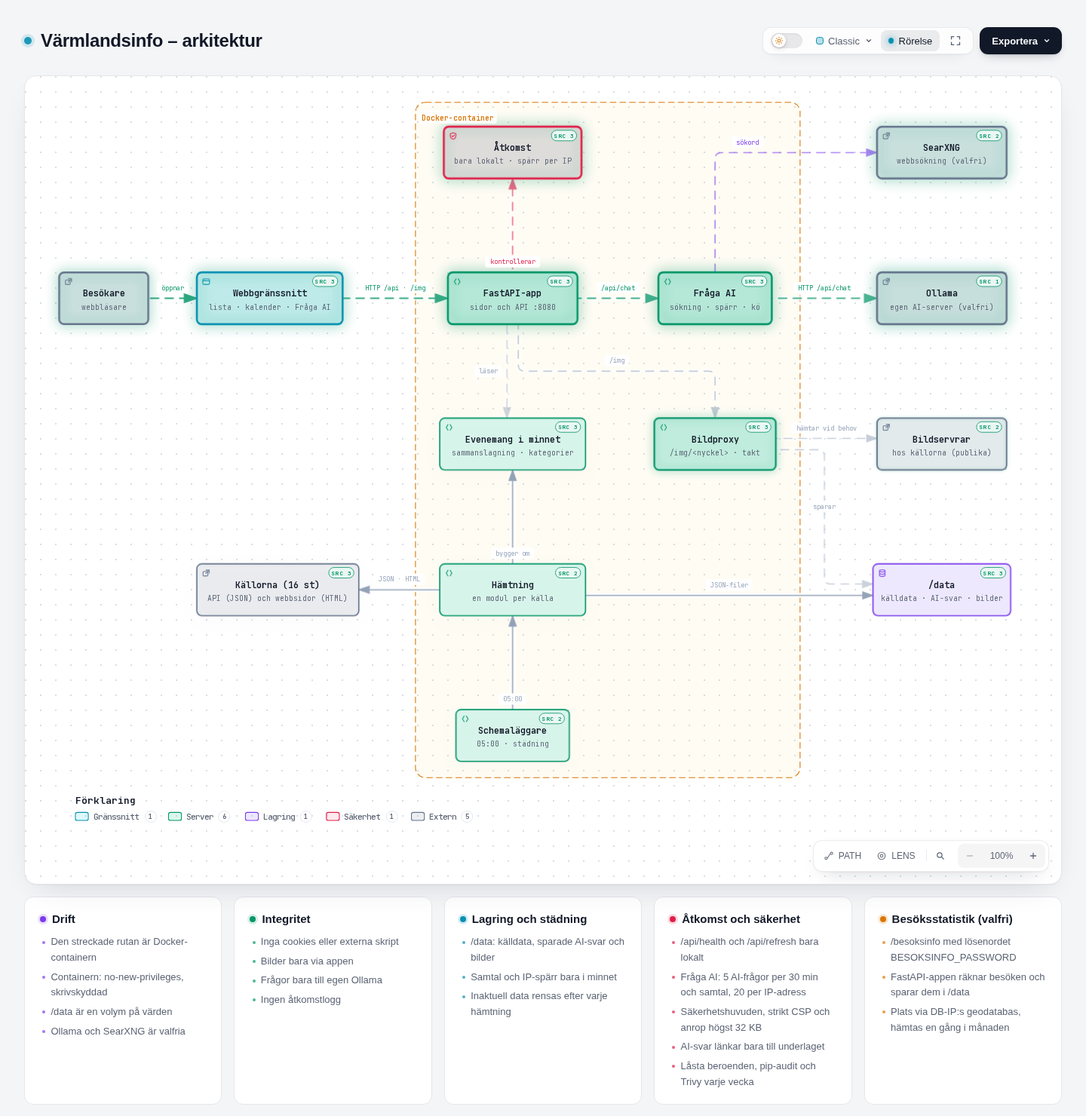
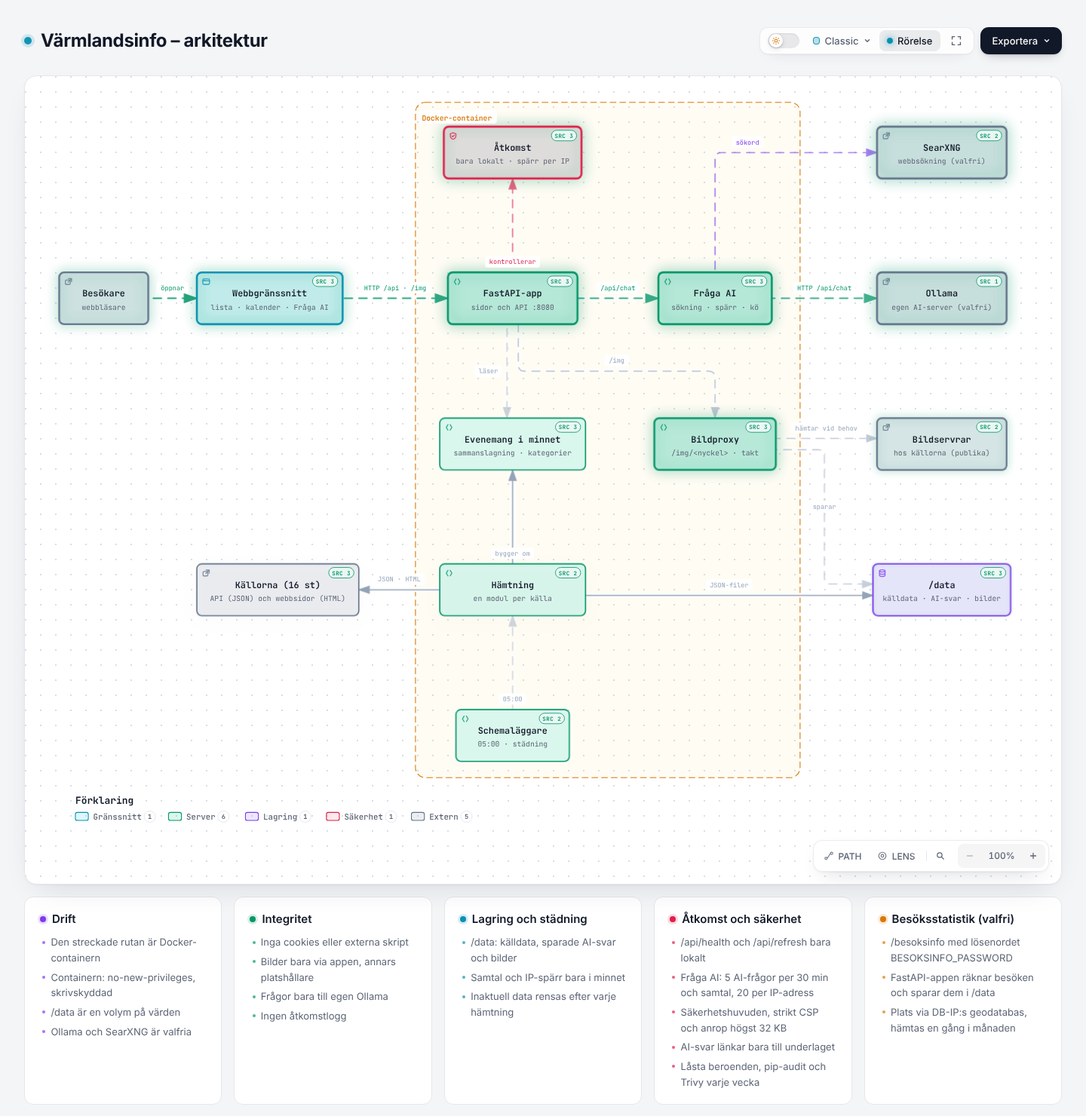
Arkitekturbilden på v0.33.0 (#103)
Revisionen 16ca8a8, en hänvisning till platshållarbilderna i
webbgränssnittet och kortet Integritet nämner dem. Omrenderad med
Archify (alla kontroller godkända) och ny skärmbild i ljust läge.

Closes #103

Claude-Session: https://claude.ai/code/session_011w4Yd2iswLxA5DiZ7UK4Ru

diff --git a/docs/arkitektur/varmlandsinfo.html b/docs/arkitektur/varmlandsinfo.html
@@ -4982,7 +4982,7 @@ OTHER DEALINGS IN THE FONT SOFTWARE.
       </div>
     </div>
 
-    <script id="archify-source-evidence-data" type="application/json">{"schemaVersion":1,"verified":true,"repository":{"url":"https://github.com/tubalainen/varmlandsinfo","revision":"64b8774852574dab24ae22b36ae48332cced5d8c","shortRevision":"64b8774","label":"tubalainen/varmlandsinfo","href":"https://github.com/tubalainen/varmlandsinfo/tree/64b8774852574dab24ae22b36ae48332cced5d8c"},"referenceCount":33,"nodes":{"ui":[{"path":"app/static/app.js","line":134,"endLine":139,"label":"vyerna","href":"https://github.com/tubalainen/varmlandsinfo/blob/64b8774852574dab24ae22b36ae48332cced5d8c/app/static/app.js#L134-L139"},{"path":"app/static/app.js","line":246,"label":"hämtar /api/events","href":"https://github.com/tubalainen/varmlandsinfo/blob/64b8774852574dab24ae22b36ae48332cced5d8c/app/static/app.js#L246"},{"path":"app/static/chat.js","line":11,"endLine":15,"label":"länkar bara till underlaget","href":"https://github.com/tubalainen/varmlandsinfo/blob/64b8774852574dab24ae22b36ae48332cced5d8c/app/static/chat.js#L11-L15"}],"api":[{"path":"app/main.py","line":227,"endLine":248,"label":"/api/events och /img","href":"https://github.com/tubalainen/varmlandsinfo/blob/64b8774852574dab24ae22b36ae48332cced5d8c/app/main.py#L227-L248"},{"path":"app/main.py","line":295,"label":"/api/chat","href":"https://github.com/tubalainen/varmlandsinfo/blob/64b8774852574dab24ae22b36ae48332cced5d8c/app/main.py#L295"},{"path":"app/main.py","line":365,"endLine":422,"label":"högst 32 KB, säkerhetshuvuden och CSP","href":"https://github.com/tubalainen/varmlandsinfo/blob/64b8774852574dab24ae22b36ae48332cced5d8c/app/main.py#L365-L422"}],"access":[{"path":"app/access.py","line":33,"endLine":56,"label":"lokalt och klientens IP","href":"https://github.com/tubalainen/varmlandsinfo/blob/64b8774852574dab24ae22b36ae48332cced5d8c/app/access.py#L33-L56"},{"path":"app/access.py","line":58,"label":"IpLimiter","href":"https://github.com/tubalainen/varmlandsinfo/blob/64b8774852574dab24ae22b36ae48332cced5d8c/app/access.py#L58"},{"path":"app/main.py","line":251,"endLine":257,"label":"health och refresh","href":"https://github.com/tubalainen/varmlandsinfo/blob/64b8774852574dab24ae22b36ae48332cced5d8c/app/main.py#L251-L257"}],"chat":[{"path":"app/chat.py","line":842,"label":"chat_stream","href":"https://github.com/tubalainen/varmlandsinfo/blob/64b8774852574dab24ae22b36ae48332cced5d8c/app/chat.py#L842"},{"path":"app/chat.py","line":942,"label":"kön till Ollama","href":"https://github.com/tubalainen/varmlandsinfo/blob/64b8774852574dab24ae22b36ae48332cced5d8c/app/chat.py#L942"},{"path":"app/chat.py","line":696,"endLine":699,"label":"tillåtna länkar","href":"https://github.com/tubalainen/varmlandsinfo/blob/64b8774852574dab24ae22b36ae48332cced5d8c/app/chat.py#L696-L699"}],"ollama":[{"path":"app/chat.py","line":963,"label":"POST /api/chat","href":"https://github.com/tubalainen/varmlandsinfo/blob/64b8774852574dab24ae22b36ae48332cced5d8c/app/chat.py#L963"}],"searxng":[{"path":"app/chat.py","line":931,"label":"webbsökning","href":"https://github.com/tubalainen/varmlandsinfo/blob/64b8774852574dab24ae22b36ae48332cced5d8c/app/chat.py#L931"},{"path":"app/websearch.py","line":56,"endLine":63,"label":"GET /search","href":"https://github.com/tubalainen/varmlandsinfo/blob/64b8774852574dab24ae22b36ae48332cced5d8c/app/websearch.py#L56-L63"}],"images":[{"path":"app/images.py","line":101,"label":"ImageProxy","href":"https://github.com/tubalainen/varmlandsinfo/blob/64b8774852574dab24ae22b36ae48332cced5d8c/app/images.py#L101"},{"path":"app/images.py","line":155,"endLine":163,"label":"takt mot källorna","href":"https://github.com/tubalainen/varmlandsinfo/blob/64b8774852574dab24ae22b36ae48332cced5d8c/app/images.py#L155-L163"},{"path":"app/images.py","line":213,"label":"_download","href":"https://github.com/tubalainen/varmlandsinfo/blob/64b8774852574dab24ae22b36ae48332cced5d8c/app/images.py#L213"}],"imagehosts":[{"path":"app/images.py","line":213,"endLine":238,"label":"hämtning med kontroller","href":"https://github.com/tubalainen/varmlandsinfo/blob/64b8774852574dab24ae22b36ae48332cced5d8c/app/images.py#L213-L238"},{"path":"app/images.py","line":86,"endLine":98,"label":"serverns adress är publik","href":"https://github.com/tubalainen/varmlandsinfo/blob/64b8774852574dab24ae22b36ae48332cced5d8c/app/images.py#L86-L98"}],"merge":[{"path":"app/events.py","line":42,"endLine":62,"label":"rebuild","href":"https://github.com/tubalainen/varmlandsinfo/blob/64b8774852574dab24ae22b36ae48332cced5d8c/app/events.py#L42-L62"},{"path":"app/merge.py","line":122,"label":"merge","href":"https://github.com/tubalainen/varmlandsinfo/blob/64b8774852574dab24ae22b36ae48332cced5d8c/app/merge.py#L122"},{"path":"app/events.py","line":228,"label":"current_events","href":"https://github.com/tubalainen/varmlandsinfo/blob/64b8774852574dab24ae22b36ae48332cced5d8c/app/events.py#L228"}],"scheduler":[{"path":"app/main.py","line":142,"label":"scheduler","href":"https://github.com/tubalainen/varmlandsinfo/blob/64b8774852574dab24ae22b36ae48332cced5d8c/app/main.py#L142"},{"path":"app/main.py","line":102,"label":"cleanup","href":"https://github.com/tubalainen/varmlandsinfo/blob/64b8774852574dab24ae22b36ae48332cced5d8c/app/main.py#L102"}],"fetch":[{"path":"app/events.py","line":127,"endLine":147,"label":"_refresh","href":"https://github.com/tubalainen/varmlandsinfo/blob/64b8774852574dab24ae22b36ae48332cced5d8c/app/events.py#L127-L147"},{"path":"app/sources/__init__.py","line":19,"endLine":21,"label":"källorna","href":"https://github.com/tubalainen/varmlandsinfo/blob/64b8774852574dab24ae22b36ae48332cced5d8c/app/sources/__init__.py#L19-L21"}],"data":[{"path":"app/events.py","line":65,"endLine":76,"label":"källdata (JSON)","href":"https://github.com/tubalainen/varmlandsinfo/blob/64b8774852574dab24ae22b36ae48332cced5d8c/app/events.py#L65-L76"},{"path":"app/chat_cache.py","line":49,"endLine":55,"label":"sparade AI-svar","href":"https://github.com/tubalainen/varmlandsinfo/blob/64b8774852574dab24ae22b36ae48332cced5d8c/app/chat_cache.py#L49-L55"},{"path":"app/images.py","line":204,"label":"bilder","href":"https://github.com/tubalainen/varmlandsinfo/blob/64b8774852574dab24ae22b36ae48332cced5d8c/app/images.py#L204"}],"sources":[{"path":"app/sources/visitvarmland.py","line":51,"label":"Visit Värmland","href":"https://github.com/tubalainen/varmlandsinfo/blob/64b8774852574dab24ae22b36ae48332cced5d8c/app/sources/visitvarmland.py#L51"},{"path":"app/sources/motorsport.py","line":116,"endLine":136,"label":"SBF och Svemo","href":"https://github.com/tubalainen/varmlandsinfo/blob/64b8774852574dab24ae22b36ae48332cced5d8c/app/sources/motorsport.py#L116-L136"},{"path":"app/sources/__init__.py","line":19,"endLine":21,"label":"alla källor","href":"https://github.com/tubalainen/varmlandsinfo/blob/64b8774852574dab24ae22b36ae48332cced5d8c/app/sources/__init__.py#L19-L21"}]}}</script>
+    <script id="archify-source-evidence-data" type="application/json">{"schemaVersion":1,"verified":true,"repository":{"url":"https://github.com/tubalainen/varmlandsinfo","revision":"16ca8a8ec38490a827246c05f5f9cc3992118754","shortRevision":"16ca8a8","label":"tubalainen/varmlandsinfo","href":"https://github.com/tubalainen/varmlandsinfo/tree/16ca8a8ec38490a827246c05f5f9cc3992118754"},"referenceCount":33,"nodes":{"ui":[{"path":"app/static/app.js","line":246,"label":"hämtar /api/events","href":"https://github.com/tubalainen/varmlandsinfo/blob/16ca8a8ec38490a827246c05f5f9cc3992118754/app/static/app.js#L246"},{"path":"app/static/app.js","line":458,"endLine":469,"label":"platshållarbilder","href":"https://github.com/tubalainen/varmlandsinfo/blob/16ca8a8ec38490a827246c05f5f9cc3992118754/app/static/app.js#L458-L469"},{"path":"app/static/chat.js","line":11,"endLine":15,"label":"länkar bara till underlaget","href":"https://github.com/tubalainen/varmlandsinfo/blob/16ca8a8ec38490a827246c05f5f9cc3992118754/app/static/chat.js#L11-L15"}],"api":[{"path":"app/main.py","line":227,"endLine":248,"label":"/api/events och /img","href":"https://github.com/tubalainen/varmlandsinfo/blob/16ca8a8ec38490a827246c05f5f9cc3992118754/app/main.py#L227-L248"},{"path":"app/main.py","line":295,"label":"/api/chat","href":"https://github.com/tubalainen/varmlandsinfo/blob/16ca8a8ec38490a827246c05f5f9cc3992118754/app/main.py#L295"},{"path":"app/main.py","line":365,"endLine":422,"label":"högst 32 KB, säkerhetshuvuden och CSP","href":"https://github.com/tubalainen/varmlandsinfo/blob/16ca8a8ec38490a827246c05f5f9cc3992118754/app/main.py#L365-L422"}],"access":[{"path":"app/access.py","line":33,"endLine":56,"label":"lokalt och klientens IP","href":"https://github.com/tubalainen/varmlandsinfo/blob/16ca8a8ec38490a827246c05f5f9cc3992118754/app/access.py#L33-L56"},{"path":"app/access.py","line":58,"label":"IpLimiter","href":"https://github.com/tubalainen/varmlandsinfo/blob/16ca8a8ec38490a827246c05f5f9cc3992118754/app/access.py#L58"},{"path":"app/main.py","line":251,"endLine":257,"label":"health och refresh","href":"https://github.com/tubalainen/varmlandsinfo/blob/16ca8a8ec38490a827246c05f5f9cc3992118754/app/main.py#L251-L257"}],"chat":[{"path":"app/chat.py","line":842,"label":"chat_stream","href":"https://github.com/tubalainen/varmlandsinfo/blob/16ca8a8ec38490a827246c05f5f9cc3992118754/app/chat.py#L842"},{"path":"app/chat.py","line":942,"label":"kön till Ollama","href":"https://github.com/tubalainen/varmlandsinfo/blob/16ca8a8ec38490a827246c05f5f9cc3992118754/app/chat.py#L942"},{"path":"app/chat.py","line":696,"endLine":699,"label":"tillåtna länkar","href":"https://github.com/tubalainen/varmlandsinfo/blob/16ca8a8ec38490a827246c05f5f9cc3992118754/app/chat.py#L696-L699"}],"ollama":[{"path":"app/chat.py","line":963,"label":"POST /api/chat","href":"https://github.com/tubalainen/varmlandsinfo/blob/16ca8a8ec38490a827246c05f5f9cc3992118754/app/chat.py#L963"}],"searxng":[{"path":"app/chat.py","line":931,"label":"webbsökning","href":"https://github.com/tubalainen/varmlandsinfo/blob/16ca8a8ec38490a827246c05f5f9cc3992118754/app/chat.py#L931"},{"path":"app/websearch.py","line":56,"endLine":63,"label":"GET /search","href":"https://github.com/tubalainen/varmlandsinfo/blob/16ca8a8ec38490a827246c05f5f9cc3992118754/app/websearch.py#L56-L63"}],"images":[{"path":"app/images.py","line":101,"label":"ImageProxy","href":"https://github.com/tubalainen/varmlandsinfo/blob/16ca8a8ec38490a827246c05f5f9cc3992118754/app/images.py#L101"},{"path":"app/images.py","line":155,"endLine":163,"label":"takt mot källorna","href":"https://github.com/tubalainen/varmlandsinfo/blob/16ca8a8ec38490a827246c05f5f9cc3992118754/app/images.py#L155-L163"},{"path":"app/images.py","line":213,"label":"_download","href":"https://github.com/tubalainen/varmlandsinfo/blob/16ca8a8ec38490a827246c05f5f9cc3992118754/app/images.py#L213"}],"imagehosts":[{"path":"app/images.py","line":213,"endLine":238,"label":"hämtning med kontroller","href":"https://github.com/tubalainen/varmlandsinfo/blob/16ca8a8ec38490a827246c05f5f9cc3992118754/app/images.py#L213-L238"},{"path":"app/images.py","line":86,"endLine":98,"label":"serverns adress är publik","href":"https://github.com/tubalainen/varmlandsinfo/blob/16ca8a8ec38490a827246c05f5f9cc3992118754/app/images.py#L86-L98"}],"merge":[{"path":"app/events.py","line":42,"endLine":62,"label":"rebuild","href":"https://github.com/tubalainen/varmlandsinfo/blob/16ca8a8ec38490a827246c05f5f9cc3992118754/app/events.py#L42-L62"},{"path":"app/merge.py","line":122,"label":"merge","href":"https://github.com/tubalainen/varmlandsinfo/blob/16ca8a8ec38490a827246c05f5f9cc3992118754/app/merge.py#L122"},{"path":"app/events.py","line":228,"label":"current_events","href":"https://github.com/tubalainen/varmlandsinfo/blob/16ca8a8ec38490a827246c05f5f9cc3992118754/app/events.py#L228"}],"scheduler":[{"path":"app/main.py","line":142,"label":"scheduler","href":"https://github.com/tubalainen/varmlandsinfo/blob/16ca8a8ec38490a827246c05f5f9cc3992118754/app/main.py#L142"},{"path":"app/main.py","line":102,"label":"cleanup","href":"https://github.com/tubalainen/varmlandsinfo/blob/16ca8a8ec38490a827246c05f5f9cc3992118754/app/main.py#L102"}],"fetch":[{"path":"app/events.py","line":127,"endLine":147,"label":"_refresh","href":"https://github.com/tubalainen/varmlandsinfo/blob/16ca8a8ec38490a827246c05f5f9cc3992118754/app/events.py#L127-L147"},{"path":"app/sources/__init__.py","line":19,"endLine":21,"label":"källorna","href":"https://github.com/tubalainen/varmlandsinfo/blob/16ca8a8ec38490a827246c05f5f9cc3992118754/app/sources/__init__.py#L19-L21"}],"data":[{"path":"app/events.py","line":65,"endLine":76,"label":"källdata (JSON)","href":"https://github.com/tubalainen/varmlandsinfo/blob/16ca8a8ec38490a827246c05f5f9cc3992118754/app/events.py#L65-L76"},{"path":"app/chat_cache.py","line":49,"endLine":55,"label":"sparade AI-svar","href":"https://github.com/tubalainen/varmlandsinfo/blob/16ca8a8ec38490a827246c05f5f9cc3992118754/app/chat_cache.py#L49-L55"},{"path":"app/images.py","line":204,"label":"bilder","href":"https://github.com/tubalainen/varmlandsinfo/blob/16ca8a8ec38490a827246c05f5f9cc3992118754/app/images.py#L204"}],"sources":[{"path":"app/sources/visitvarmland.py","line":51,"label":"Visit Värmland","href":"https://github.com/tubalainen/varmlandsinfo/blob/16ca8a8ec38490a827246c05f5f9cc3992118754/app/sources/visitvarmland.py#L51"},{"path":"app/sources/motorsport.py","line":116,"endLine":136,"label":"SBF och Svemo","href":"https://github.com/tubalainen/varmlandsinfo/blob/16ca8a8ec38490a827246c05f5f9cc3992118754/app/sources/motorsport.py#L116-L136"},{"path":"app/sources/__init__.py","line":19,"endLine":21,"label":"alla källor","href":"https://github.com/tubalainen/varmlandsinfo/blob/16ca8a8ec38490a827246c05f5f9cc3992118754/app/sources/__init__.py#L19-L21"}]}}</script>
     <script id="archify-i18n-data" type="application/json">{"locale":"sv","messages":{"viewer.kind.frontend":"Gränssnitt","viewer.kind.backend":"Server","viewer.kind.database":"Lagring","viewer.kind.cloud":"Moln","viewer.kind.security":"Säkerhet","viewer.kind.messagebus":"Meddelandekö","viewer.kind.external":"Extern","viewer.kind.neutral":"Neutral","viewer.kind.node":"Node","viewer.kind.start":"Start","viewer.kind.active":"Active","viewer.kind.waiting":"Waiting","viewer.kind.decision":"Decision","viewer.kind.success":"Success","viewer.kind.failure":"Failure","viewer.toolbar.actions":"Diagramåtgärder","viewer.theme.toggle.title":"Byt tema (T)","viewer.theme.toggle":"Byt färgtema","viewer.theme.dark":"Mörkt","viewer.theme.light":"Ljust","viewer.preset.choose.title":"Choose visual style (S cycles)","viewer.preset.choose":"Choose visual style","viewer.preset.style":"Style","viewer.preset.menu":"Visual style","viewer.preset.identity":"Visual identity","viewer.preset.cycles":"to cycle","viewer.preset.classic":"Classic","viewer.preset.classic.short":"Classic","viewer.preset.classic.hint":"Stable technical default","viewer.preset.flow":"Signal Flow","viewer.preset.flow.short":"Flow","viewer.preset.flow.hint":"Motion-forward presentation","viewer.preset.blueprint":"Blueprint","viewer.preset.blueprint.hint":"Engineering review","viewer.preset.editorial":"Editorial","viewer.preset.editorial.hint":"Publication and launch notes","viewer.preset.badge.signalFlow":"SIGNAL FLOW","viewer.preset.badge.blueprint":"BLUEPRINT / REV 01","viewer.preset.badge.editorial":"EDITORIAL / FIELD NOTE","viewer.preset.badge.editorialPlate":"ARCHIFY / PLATE 04","viewer.preset.current":"Visual style: {style}. Choose visual style","viewer.motion.live":"Rörelse","viewer.motion.still":"Stilla","viewer.motion.pause":"Pausa rörelsen","viewer.motion.resume":"Starta rörelsen","viewer.motion.reduced":"Rörelsen är pausad eftersom minskad rörelse är vald","viewer.motion.hidden":"Rörelsen är pausad medan sidan är dold","viewer.motion.yielding":"Pause motion; currently yielding to {owner}","viewer.motion.yielding.title":"Live preview enabled · yielding to {owner}","viewer.owner.route":"Route Probe","viewer.owner.lens":"Semantic Lens","viewer.owner.relationship":"Relationship Preview","viewer.owner.intent":"Intent Trace","viewer.owner.focus":"semantic focus","viewer.owner.legend":"legend preview","viewer.owner.reader":"reader interaction","viewer.present.enter":"Visa i presentationsläge","viewer.present.enter.title":"Presentationsläge (F)","viewer.present.exit":"Lämna presentationsläget","viewer.present.exit.title":"Lämna presentationsläget (F eller Escape)","viewer.present.present":"Presentera","viewer.present.exit.label":"Lämna","viewer.export.button":"Exportera","viewer.export.button.title":"Exportera diagrammet (E)","viewer.export.diagram":"Exportera diagrammet","viewer.export.menu":"Exportera","viewer.export.subtitle":"Portable, clean outputs","viewer.export.share":"Share","viewer.export.shareCard":"Share Card","viewer.export.routeShareCard":"Route Share Card","viewer.export.reachShareCard":"Reach Share Card","viewer.export.copyDiagram":"Copy diagram","viewer.export.clipboardPng":"PNG to clipboard","viewer.export.raster":"Raster images","viewer.export.image":"Image","viewer.export.lossless":"Lossless image","viewer.export.compact":"Compact image","viewer.export.modern":"Modern image","viewer.export.vectorMotion":"Vector and motion","viewer.export.vectorMotion.heading":"Vector \u0026 motion","viewer.export.editable":"Editable vector","viewer.export.svg.auto":"SVG · Auto","viewer.export.svg.auto.hint":"Matches host theme","viewer.export.svg.light":"SVG · Light","viewer.export.svg.light.hint":"Always light","viewer.export.svg.dark":"SVG · Dark","viewer.export.svg.dark.hint":"Always dark","viewer.export.motion6s":"6s motion","viewer.export.unsupported":"Not supported by this browser","viewer.export.clipboardUnsupported":"Clipboard image write not supported by this browser","viewer.export.clipboardUnsupported.short":"Clipboard image write not supported in this browser.","viewer.export.motionUnavailable":"Motion capture unavailable in this browser","viewer.export.webmUnavailable":"WebM unavailable in this browser","viewer.export.failed":"Export failed: {message}","viewer.export.unknownVariant":"Unknown Share Card variant: {variant}","viewer.export.routeRequired":"Trace a route before exporting a Route Share Card","viewer.export.reachRequired":"Trace authored reach before exporting a Reach Share Card","viewer.export.unknown":"unknown","viewer.export.routeFailed":"Route Share Card export failed: {message}","viewer.export.reachFailed":"Reach Share Card export failed: {message}","viewer.export.copyFailed":"Copy failed: {message}","viewer.export.copiedPng":"Copied PNG to clipboard","viewer.export.downloadedRoute":"Downloaded Route Share Card","viewer.export.downloadedReach":"Downloaded Reach Share Card","viewer.export.downloadedWebm":"Downloaded WebM","viewer.export.recording":"Recording 6 seconds of motion…","viewer.export.card.routeSummary.one":"Path: {source} → {target} · {count} step","viewer.export.card.routeSummary.other":"Path: {source} → {target} · {count} steps","viewer.export.card.reachSummary":"Authored {direction} from {origin} · {nodes} · {links} · max {hops}","viewer.export.card.node.one":"{count} node","viewer.export.card.node.other":"{count} nodes","viewer.export.card.link.one":"{count} link","viewer.export.card.link.other":"{count} links","viewer.export.card.hop.one":"{count} hop","viewer.export.card.hop.other":"{count} hops","viewer.export.card.routeBadge":"ARCHIFY · ROUTE · {hops}","viewer.export.card.reachBadge":"ARCHIFY · {direction} REACH","viewer.export.direction.upstream":"Upstream","viewer.export.direction.downstream":"Downstream","viewer.export.error.canvasUnavailable":"Canvas unavailable for {label}","viewer.export.error.contextUnavailable":"2D canvas context unavailable for {label}","viewer.export.error.toBlobUnavailable":"canvas.toBlob unavailable for {label}","viewer.export.error.toBlobNull":"canvas.toBlob returned no data for {label}","viewer.export.error.variantsCombined":"Share Card variants cannot be combined","viewer.export.error.viewerState":"Share Card export could not remove temporary viewer state","viewer.export.error.routeState":"Route Card export could not preserve the resolved route safely","viewer.export.error.reachState":"Reach Card export could not preserve authored reach safely","viewer.export.error.webmRequirements":"WebM motion export requires a trace animation and browser MediaRecorder support","viewer.export.error.mediaRecorder":"MediaRecorder failed","viewer.export.error.emptyWebm":"MediaRecorder produced an empty WebM","viewer.export.error.webmBackground":"SVG background could not be loaded for WebM export","viewer.guide.title":"Explore this system","viewer.focus.selectedNodes":"{count} selected nodes","viewer.guide.eyebrow":"Diagram guide","viewer.guide.close":"Close diagram guide","viewer.guide.inspecting":"Inspecting compiled semantics","viewer.guide.actions":"Diagram exploration actions","viewer.guide.find":"Find any node","viewer.guide.find.hint":"Search labels, responsibilities, kinds, and stable IDs.","viewer.guide.route":"Trace a route","viewer.guide.route.aria":"Trace a directed route","viewer.guide.route.hint":"Ask how two semantic nodes connect in authored direction.","viewer.guide.map":"See the whole system","viewer.guide.map.hint":"Open Semantic Radar with a live viewport and stable nodes.","viewer.guide.lens":"Compare semantic kinds","viewer.guide.lens.hint":"Count roles, reveal their traffic, and compare direct authored links.","viewer.guide.present":"Enter Presentation Stage","viewer.guide.present.hint":"Give the live diagram the viewport without changing export.","viewer.guide.shortcuts":"Additional keyboard shortcuts","viewer.guide.shortcut.export":"Export","viewer.guide.shortcut.theme":"Theme","viewer.guide.shortcut.style":"Style","viewer.guide.shortcut.reset":"Reset","viewer.guide.shortcut.zoomIn":"Zoom in","viewer.guide.shortcut.zoomOut":"Zoom out","viewer.guide.shortcut.close":"Close","viewer.guide.facts":"{nodes} · {relationships}","viewer.guide.fact.node.one":"{count} semantic node","viewer.guide.fact.node.other":"{count} semantic nodes","viewer.guide.fact.relationship.one":"{count} relationship","viewer.guide.fact.relationship.other":"{count} relationships","viewer.guide.open":"Open diagram guide","viewer.finder.title":"Find a node","viewer.finder.close":"Close node finder","viewer.finder.placeholder":"Search labels or IDs","viewer.finder.search":"Search diagram nodes","viewer.finder.results":"Diagram nodes","viewer.finder.empty":"No matching nodes","viewer.finder.result.focus":"Focus {label}","viewer.finder.result.routeStart":"Choose {label} as route start","viewer.finder.result.routeTarget":"Choose {label} as route destination, {links}","viewer.finder.status.empty":"No matching nodes","viewer.finder.status.count.one":"{count} matching node","viewer.finder.status.count.other":"{count} matching nodes","viewer.finder.noun.nodes":"nodes","viewer.finder.link.one":"{count} link","viewer.finder.link.other":"{count} links","viewer.finder.result.focus.one":"Focus {label}, {count} related connection","viewer.finder.result.focus.other":"Focus {label}, {count} related connections","viewer.finder.status.filtered":"{visible} of {available} {noun}","viewer.finder.status.all":"{available} {noun}","viewer.passport.eyebrow":"Semantic passport","viewer.passport.metadata":"Node metadata","viewer.passport.evidence":"Verified source evidence","viewer.passport.verified":"Verified source","viewer.passport.verificationScope":"Verified against local Git at the pinned revision. Remote access has not been checked.","viewer.passport.reach":"Authored reach","viewer.passport.reach.trace":"Trace authored reachability","viewer.passport.upstream":"Upstream","viewer.passport.downstream":"Downstream","viewer.passport.upstream.trace":"Trace upstream authored reachability","viewer.passport.downstream.trace":"Trace downstream authored reachability","viewer.passport.close":"Close semantic passport","viewer.passport.move":"Move semantic passport. Drag, use arrow keys, or press Home to reset.","viewer.passport.copy":"Copy link","viewer.passport.copy.focus":"Copy link to focused node","viewer.passport.relations":"Relations","viewer.passport.relations.show":"Show connected relationships","viewer.passport.relations.hide":"Hide connected relationships","viewer.passport.relations.list":"Connected relationships","viewer.passport.copyRelation":"Copy relation","viewer.passport.copyNode":"Copy node","viewer.passport.copyPinned":"Copy link to pinned relationship","viewer.passport.copySource":"Copy link to source node","viewer.passport.copy.focused.success":"Focused node link copied","viewer.passport.copy.pinned.success":"Pinned relationship link copied","viewer.passport.copy.focused.failed":"Could not copy focused node link","viewer.passport.copy.pinned.failed":"Could not copy pinned relationship link","viewer.passport.relationship.none":"No connected relationships","viewer.passport.relationship.count.one":"{count} relation","viewer.passport.relationship.count.other":"{count} relations","viewer.passport.relationship.show.one":"Show {count} connected relationship","viewer.passport.relationship.show.other":"Show {count} connected relationships","viewer.passport.relationship.summary":"{out} outgoing · {in} incoming{loops}","viewer.passport.relationship.loops":" · {count} loop","viewer.passport.relationship.explorer":"Direct relationship explorer","viewer.passport.relationship.help":"Use arrow keys to explore relationships. Press Enter or Space to pin details; Escape clears.","viewer.passport.relationship.loopsBack":"loops back","viewer.passport.relationship.connectsTo":"connects to","viewer.passport.relationship.connectsFrom":"connects from","viewer.passport.relationship.pinned":"Pinned relationship · {from} → {to} · {label}","viewer.passport.relationship.inspect":"Inspect relationship {index} of {total}: {from} to {to}, {label}. Press Enter for details.","viewer.passport.relationship.group.out":"Outgoing","viewer.passport.relationship.group.in":"Incoming","viewer.passport.relationship.group.loop":"Self loops","viewer.passport.relationship.row":"{group}: {relationship}, {neighbor}","viewer.passport.relationship.direction.out":"OUT →","viewer.passport.relationship.direction.in":"← IN","viewer.passport.relationship.direction.loop":"LOOP","viewer.passport.sourceCount.one":"{count} verified source reference","viewer.passport.sourceCount.other":"{count} verified source references","viewer.passport.sourceMarker":"SRC","viewer.passport.beacon.one":"{count} verified source; focus this node to inspect","viewer.passport.beacon.other":"{count} verified sources; focus this node to inspect","viewer.passport.repository.open":"Open verified repository revision {revision}","viewer.passport.source.open":"Open verified source {path} at revision {revision}","viewer.passport.source.openLink":"Open ↗","viewer.passport.reach.upstream.one":"Trace {count} upstream authored node","viewer.passport.reach.upstream.other":"Trace {count} upstream authored nodes","viewer.passport.reach.downstream.one":"Trace {count} downstream authored node","viewer.passport.reach.downstream.other":"Trace {count} downstream authored nodes","viewer.passport.reach.noUpstream":"No upstream authored nodes","viewer.passport.reach.noDownstream":"No downstream authored nodes","viewer.passport.reach.status":"{direction} · {nodes} nodes · {links} links · max {hops} hops","viewer.route.eyebrow":"Path","viewer.route.start":"Click where the path starts","viewer.route.start.find":"Find start","viewer.route.start.find.aria":"Find a route start","viewer.route.copy":"Copy link","viewer.route.copy.aria":"Copy link to traced route","viewer.route.clear":"Clear","viewer.route.clear.aria":"Clear route probe","viewer.route.traced":"Path","viewer.route.pickTwo":"Click two nodes on the diagram","viewer.route.pickOne":"Click a node on the diagram","viewer.route.controls":"Route journey controls","viewer.route.previous":"Previous route position","viewer.route.play":"Play route journey","viewer.route.pause":"Pause route journey","viewer.route.replay":"Replay route journey","viewer.route.next":"Next route position","viewer.route.journey":"Journey","viewer.route.pause.label":"Pause","viewer.route.replay.label":"Replay","viewer.route.overview":"Overview","viewer.route.overview.aria":"Show complete route overview","viewer.route.instructions":"Click a start, then an end. Paths follow the arrows.","viewer.route.destination":"Where does the path from {label} end?","viewer.route.destination.find":"Find target","viewer.route.destination.find.aria":"Find a reachable route destination","viewer.route.differentDestination":"Choose a different destination","viewer.route.distinct":"Pick two different nodes.","viewer.route.unreachable":"Cannot reach {label} from here","viewer.route.unreachable.detail":"{target} cannot be reached from {source} along the arrows. Pick a highlighted node.","viewer.route.start.instructions":"Next, pick the end. Only nodes you can reach will light up.","viewer.route.copy.success":"Traced route link copied","viewer.route.copy.failed":"Could not copy traced route link","viewer.route.position":"Route position {index} of {total}: {label}","viewer.route.step":"Step {index} of {total} · {phase} · {label}","viewer.route.motionRequired":"Automatic journey requires Live motion","viewer.route.trigger.clear":"Clear traced route","viewer.route.overview.status":"{nodes} · {hops} · shortest path","viewer.route.overview.node.one":"{count} node","viewer.route.overview.node.other":"{count} nodes","viewer.route.overview.hop.one":"{count} step","viewer.route.overview.hop.other":"{count} steps","viewer.route.phase.playing":"Playing","viewer.route.phase.complete":"Complete","viewer.route.phase.inspecting":"Inspecting","viewer.route.destination.count.one":"{count} reachable node is highlighted. Click it.","viewer.route.destination.count.other":"{count} reachable nodes are highlighted. Click one.","viewer.route.noOutgoing":"No arrows lead out of this node. Clear it and pick another start.","viewer.route.result.title":"{source} to {target}","viewer.route.finder.source.title":"Choose route start","viewer.route.finder.source.placeholder":"Search route sources","viewer.route.finder.source.empty":"No matching route sources","viewer.route.finder.source.results":"Nodes that can start a route","viewer.route.finder.source.noun":"route sources","viewer.route.finder.source.badge":"start","viewer.route.finder.target.title":"Destination from {label}","viewer.route.finder.target.placeholder":"Search reachable destinations","viewer.route.finder.target.empty":"No matching reachable destinations","viewer.route.finder.target.results":"Reachable route destinations","viewer.route.finder.target.noun":"reachable destinations","viewer.route.hop.one":"{count} hop","viewer.route.hop.other":"{count} hops","viewer.lens.eyebrow":"Semantic lens","viewer.lens.title":"Compare system roles","viewer.lens.close":"Close semantic lens","viewer.lens.instruction":"Choose up to two semantic kinds. One reveals its real traffic; two compare only direct authored relationships.","viewer.lens.kinds":"Semantic kinds","viewer.lens.choose":"Choose a kind to inspect its nodes and touching relationships.","viewer.lens.copy":"Copy link to semantic lens","viewer.lens.clear":"Clear semantic lens","viewer.lens.open":"Open semantic lens","viewer.lens.openActive":"Open active semantic lens","viewer.lens.legend":"Semantic legend","viewer.lens.legend.inspect.one":"Inspect {label}, {count} node","viewer.lens.legend.inspect.other":"Inspect {label}, {count} nodes","viewer.lens.kind.count.one":"{label}, {count} node","viewer.lens.kind.count.other":"{label}, {count} nodes","viewer.lens.compare.one":"{first} → {second}: {forward} · {second} → {first}: {reverse} · {count} direct relationship","viewer.lens.compare.other":"{first} → {second}: {forward} · {second} → {first}: {reverse} · {count} direct relationships","viewer.lens.single":"{nodes} · {relationships} · connected peers remain visible","viewer.lens.node.one":"{count} {label} node","viewer.lens.node.other":"{count} {label} nodes","viewer.lens.relationship.one":"{count} touching relationship","viewer.lens.relationship.other":"{count} touching relationships","viewer.radar.title":"Semantic radar","viewer.radar.building":"Building overview","viewer.radar.openFull":"Open full semantic radar","viewer.radar.open":"Open radar","viewer.radar.close":"Close semantic radar","viewer.radar.surface":"Diagram overview. Click a node to focus it, or use arrow keys to pan.","viewer.radar.click":"Click node","viewer.radar.drag":"Drag to pan","viewer.radar.space":"Semantic radar needs more MAP space.","viewer.radar.nodes":"Semantic diagram radar nodes","viewer.radar.focus":"Focus {label} from Semantic Radar","viewer.radar.status":"{count} nodes · {viewport}","viewer.radar.fullMap":"{count} nodes · full map","viewer.radar.compacted":"Radar compacted to avoid covering the Semantic Passport or MAP controls.","viewer.radar.cancelWaiting":"Cancel semantic radar waiting for more MAP space","viewer.radar.needsSpace":"Semantic radar needs more visible MAP space","viewer.radar.viewport.full":"full map","viewer.radar.viewport.width":"{percent}% width","viewer.radar.viewport.scale":"{percent}% viewport","viewer.nav.controls":"Diagram view controls","viewer.nav.route":"Trace a directed route","viewer.nav.route.title":"Trace route (R)","viewer.nav.route.short":"PATH","viewer.nav.radar":"Open semantic radar","viewer.nav.radar.title":"Semantic radar (M)","viewer.nav.radar.short":"MAP","viewer.nav.lens":"Open semantic lens","viewer.nav.lens.title":"Semantic lens (L)","viewer.nav.lens.short":"LENS","viewer.nav.find":"Find a node","viewer.nav.find.title":"Find a node (/)","viewer.outline.title":"Node index","viewer.rail.show":"Notes \u0026 index","viewer.rail.controls":"Side panel","viewer.rail.collapse":"Collapse side panel","viewer.rail.bottom":"Move panel below the diagram","viewer.rail.right":"Move panel beside the diagram","viewer.nav.guide":"Open diagram guide","viewer.nav.guide.title":"Diagram guide (?)","viewer.nav.zoomOut":"Zoom out","viewer.nav.zoomOut.title":"Zoom out (-)","viewer.nav.reset":"Reset diagram view","viewer.nav.reset.title":"Reset view (0)","viewer.nav.read":"READ","viewer.nav.zoomIn":"Zoom in","viewer.nav.zoomIn.title":"Zoom in (+)","viewer.nav.camera":"{hint}. Reset diagram view","viewer.nav.camera.title":"{semantic}{hint} · reset view (0)","viewer.nav.camera.semantic":"Semantic camera active · ","viewer.nav.level.map":"MAP","viewer.nav.level.read":"READ","viewer.nav.level.full":"FULL","viewer.nav.level.auto":"AUTO","viewer.nav.detail.map":"Zoom in to reveal relationship labels and node context","viewer.nav.detail.read":"Zoom in again to reveal tags and annotations","viewer.nav.detail.full":"Full diagram detail","viewer.intent.summary":"{label}. {out} outgoing, {in} incoming{loops}. {total} connections. Press Enter for details.","viewer.intent.loops":", {count} self loop","viewer.common.copied":"Copied","viewer.common.copyFailed":"Copy failed","viewer.common.copyLink":"Copy link","viewer.common.clear":"Clear","viewer.common.close":"Close"}}</script>
     <!-- Main Diagram -->
     <div class="diagram-container" data-detail-level="read"
@@ -5519,7 +5519,7 @@ OTHER DEALINGS IN THE FONT SOFTWARE.
         </div>
         <ul>
           <li>Inga cookies eller externa skript</li>
-          <li>Bilder bara via appen</li>
+          <li>Bilder bara via appen, annars platshållare</li>
           <li>Frågor bara till egen Ollama</li>
           <li>Ingen åtkomstlogg</li>
         </ul>

diff --git a/CLAUDE.md b/CLAUDE.md
@@ -104,7 +104,8 @@ gröna och det finns inga andra grenar eller öppna PR:er.
   Kommunerna (#79, v0.28.0), bara kommuner i filtret Kommun (#81, v0.28.1), arkitekturbilden med 13 källor och
   aktuella kodhänvisningar (#80, v0.28.2), källan Handboll och arkitekturbilden med 14 källor (#82, v0.29.0) och
   skärmdumparna med Handboll (#83).
-- **Inte släppt:** inget. v0.33.0 innehåller platshållarbilderna per kategori (#101) och skärmdumparna med
+- **Inte släppt:** arkitekturbilden på revision 16ca8a8 (v0.33.0) med platshållarbilderna (#103, ren
+  dokumentation, GitHub Pages visar den direkt). v0.33.0 innehåller platshållarbilderna per kategori (#101) och skärmdumparna med
   v0.33.0 (#102). v0.32.2 innehåller skärmdumparna med v0.32.1 och arkitekturbilden på revision 64b8774
   (#100). v0.32.1 innehåller skärmdumparna med v0.32.0 (#99). v0.32.0 innehåller den nya källan Riksteatern med arkitekturbilden med 16 källor (#98,
   Fråga AI känner igen källornas namn) och skärmdumparna med v0.31.0 (#97). v0.31.0 innehåller den nya källan Skoghalls Folkets Hus och `merge.same_slot` (#96),
@@ -257,7 +258,10 @@ kalender, och SBF har redan rallyna. LoTS och Svemo är ASP.NET/Telerik:
   Archifys `archify/SKILL.md`, uppdatera källan och `meta.repository.revision` (en pushad commit med de citerade
   raderna), kör `finalize` i en kopia i scratchpaden (så att kvittona inte hamnar i repot) med
   `ARCHIFY_CHROME=/opt/pw-browsers/chromium-1194/chrome-linux/chrome`, granska i båda lägena och ta skärmbilden i
-  ljust läge med Playwright (1440 px bred, till och med korten, när animeringen lyser upp huvudvägen). Gränsen
+  ljust läge med Playwright (1440 px bred, till och med korten, när animeringen lyser upp huvudvägen). Diagramrutans
+  höjd följer fönstret: mät korten i ett 1000 px högt fönster (efter `document.fonts.ready`), öppna sidan på nytt med
+  den höjden och ta bildrutor var 150:e ms direkt efter laddningen (huvudvägen lyser bara under den första sekunden),
+  välj den som liknar förra bilden mest och beskär till korten. Högst 3 hänvisningar (`sources`) per del. Gränsen
   "Docker-container" (#65) är en Archify-boundary, som ritas som en rektangel runt sina delar: containerns sju delar
   ligger därför samlade i två kolumner i mitten, webbläsarens delar till vänster, externa tjänster och `/data` till
   höger och källorna (en nod) till vänster om Hämtning. Inget utanför containern får hamna innanför rektangeln.

diff --git a/CHANGELOG.md b/CHANGELOG.md
@@ -6,6 +6,9 @@ Formatet följer [Keep a Changelog](https://keepachangelog.com/sv/1.1.0/) och pr
 
 ## [Unreleased]
 
+### Dokumentation
+- Arkitekturbilden pekar på v0.33.0 och nämner platshållarbilderna (#103).
+
 ## [0.33.0] - 2026-10-09
 
 ### Tillagt
